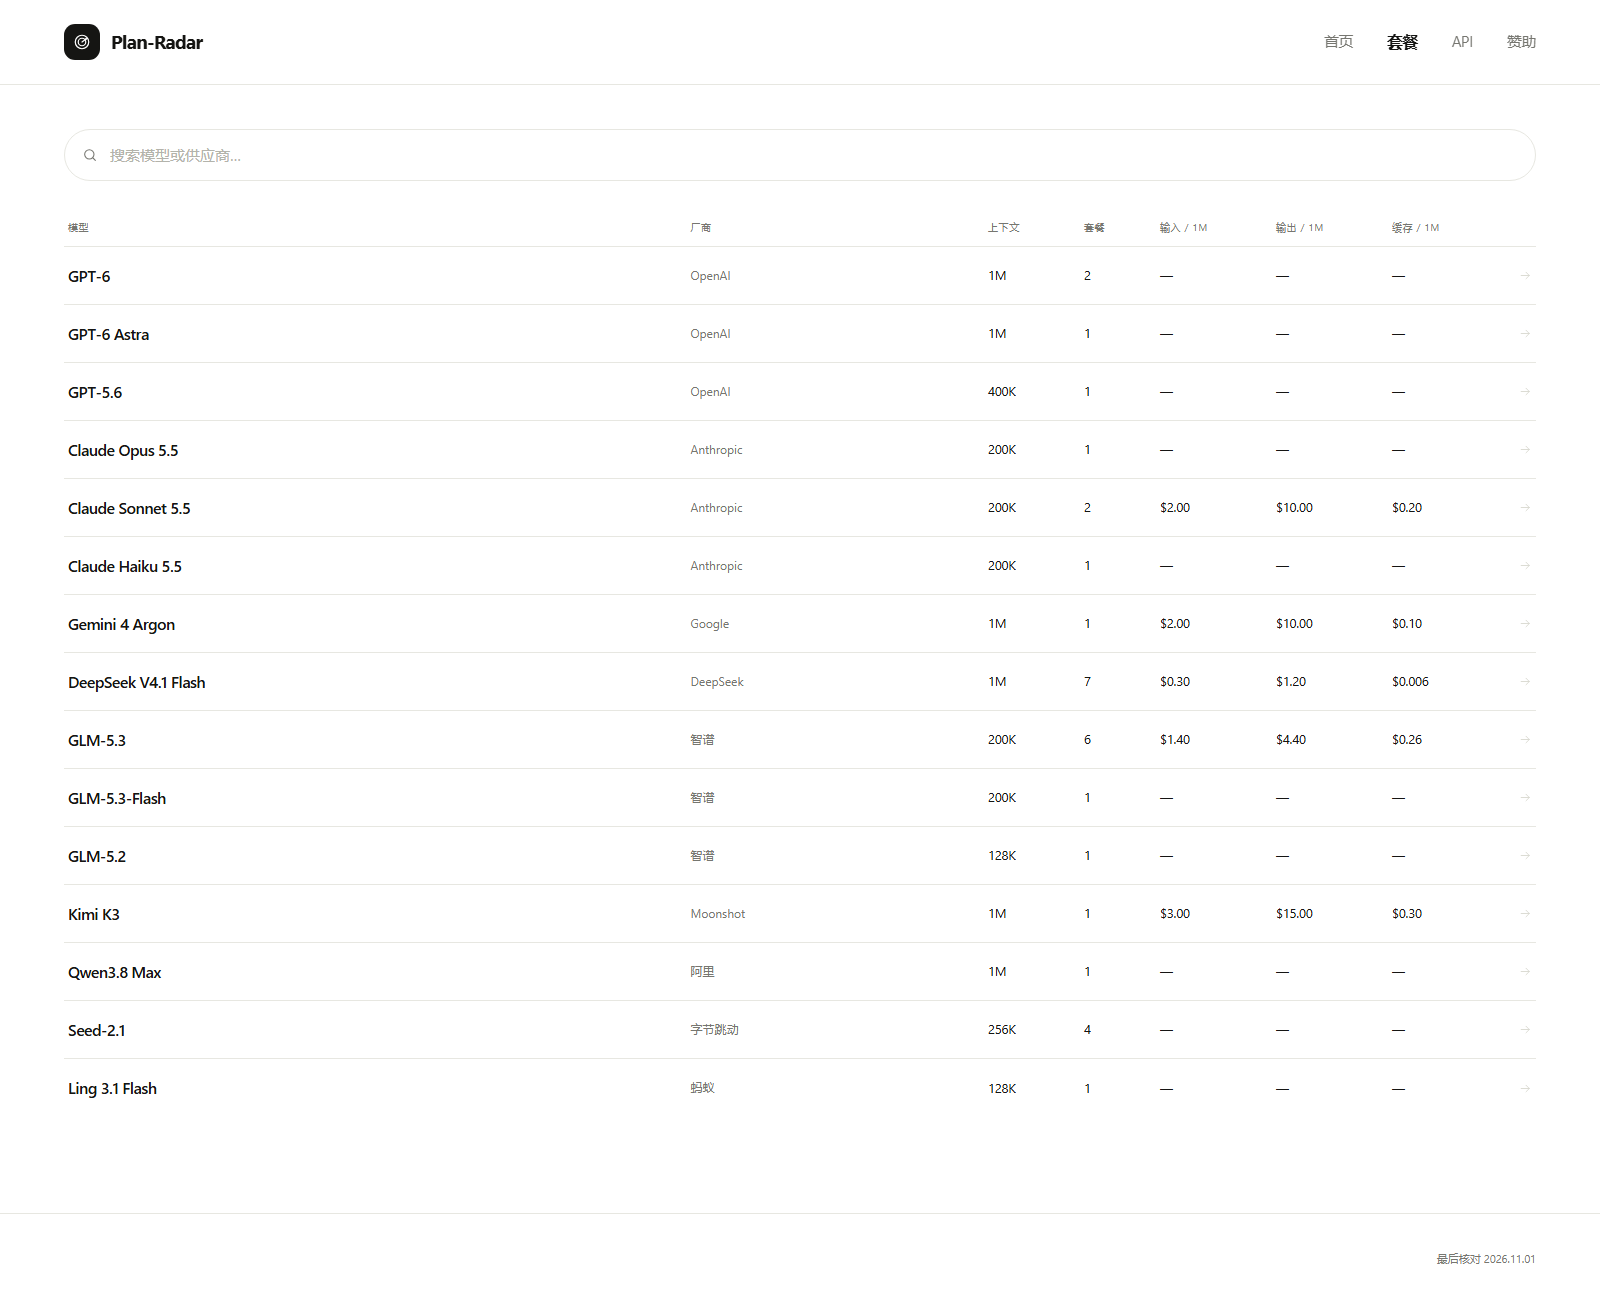
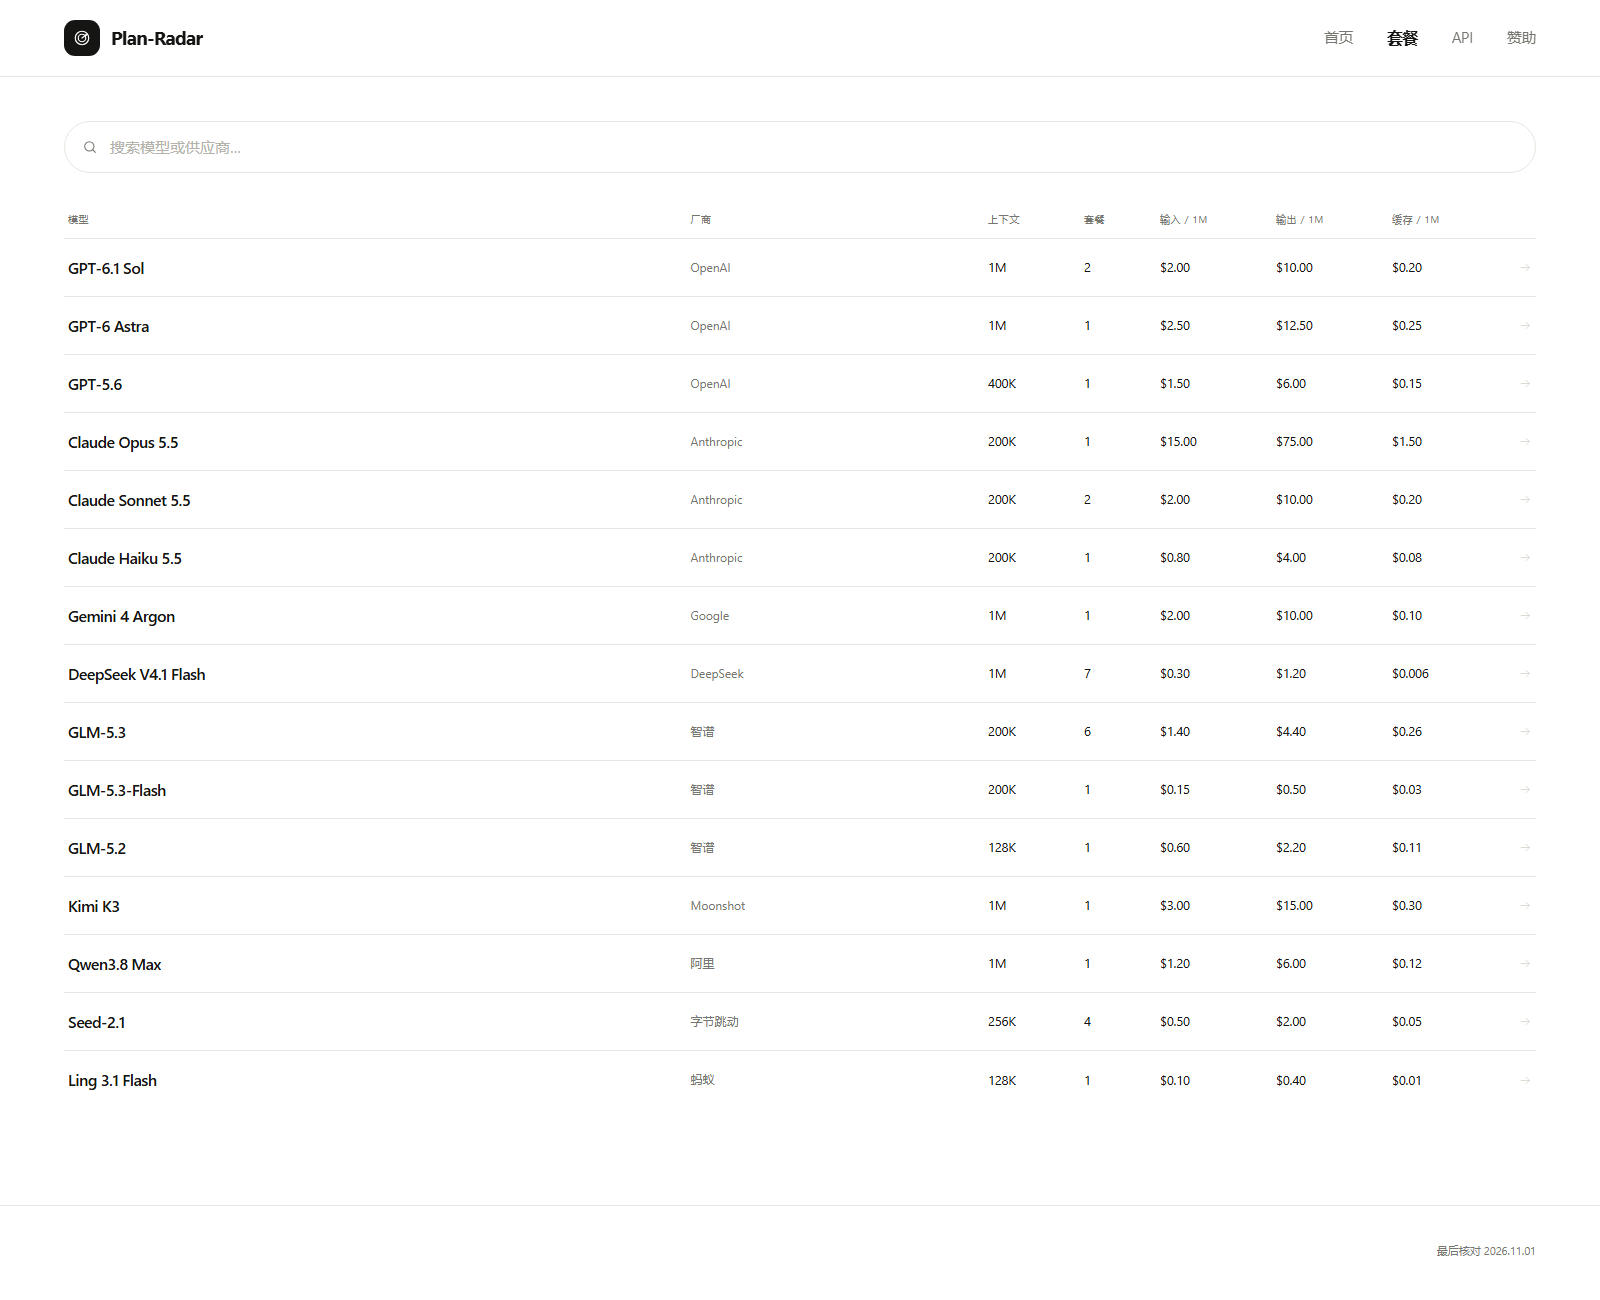
fix: gpt model and prices

diff --git a/lib/api.ts b/lib/api.ts
@@ -91,25 +91,32 @@ export interface TokenPrice {
 
 export const tokenPrices: TokenPrice[] = [
   {
-    slug: "deepseek-v4-1-flash",
-    model: "DeepSeek V4.1 Flash",
-    input: "$0.30",
-    output: "$1.20",
-    cached: "$0.006",
+    slug: "gpt-6",
+    model: "GPT-6.1 Sol",
+    input: "$2.00",
+    output: "$10.00",
+    cached: "$0.20",
   },
   {
-    slug: "glm-5-3",
-    model: "GLM-5.3",
-    input: "$1.40",
-    output: "$4.40",
-    cached: "$0.26",
+    slug: "gpt-6-astra",
+    model: "GPT-6 Astra",
+    input: "$2.50",
+    output: "$12.50",
+    cached: "$0.25",
   },
   {
-    slug: "kimi-k3",
-    model: "Kimi K3",
-    input: "$3.00",
-    output: "$15.00",
-    cached: "$0.30",
+    slug: "gpt-5-6",
+    model: "GPT-5.6",
+    input: "$1.50",
+    output: "$6.00",
+    cached: "$0.15",
+  },
+  {
+    slug: "claude-opus-5-5",
+    model: "Claude Opus 5.5",
+    input: "$15.00",
+    output: "$75.00",
+    cached: "$1.50",
   },
   {
     slug: "claude-sonnet-5-5",
@@ -119,11 +126,11 @@ export const tokenPrices: TokenPrice[] = [
     cached: "$0.20",
   },
   {
-    slug: "gpt-6-sol",
-    model: "GPT-6 Sol",
-    input: "$2.00",
-    output: "$10.00",
-    cached: "$0.20",
+    slug: "claude-haiku-5-5",
+    model: "Claude Haiku 5.5",
+    input: "$0.80",
+    output: "$4.00",
+    cached: "$0.08",
   },
   {
     slug: "gemini-4-argon",
@@ -132,5 +139,124 @@ export const tokenPrices: TokenPrice[] = [
     output: "$10.00",
     cached: "$0.10",
     note: "五折至 11/30",
+  },
+  {
+    slug: "deepseek-v4-1-flash",
+    model: "DeepSeek V4.1 Flash",
+    input: "$0.30",
+    output: "$1.20",
+    cached: "$0.006",
+  },
+  {
+    slug: "deepseek-v4-pro",
+    model: "DeepSeek V4 Pro",
+    input: "$0.60",
+    output: "$2.40",
+    cached: "$0.012",
+  },
+  {
+    slug: "glm-5-3",
+    model: "GLM-5.3",
+    input: "$1.40",
+    output: "$4.40",
+    cached: "$0.26",
+  },
+  {
+    slug: "glm-5-3-flash",
+    model: "GLM-5.3-Flash",
+    input: "$0.15",
+    output: "$0.50",
+    cached: "$0.03",
+  },
+  {
+    slug: "glm-5-2",
+    model: "GLM-5.2",
+    input: "$0.60",
+    output: "$2.20",
+    cached: "$0.11",
+  },
+  {
+    slug: "kimi-k3",
+    model: "Kimi K3",
+    input: "$3.00",
+    output: "$15.00",
+    cached: "$0.30",
+  },
+  {
+    slug: "kimi-k3-1-pro",
+    model: "Kimi K3.1 Pro",
+    input: "$6.00",
+    output: "$30.00",
+    cached: "$0.60",
+  },
+  {
+    slug: "kimi-k2-7-code",
+    model: "Kimi K2.7 Code",
+    input: "$0.60",
+    output: "$2.50",
+    cached: "$0.10",
+  },
+  {
+    slug: "qwen3-8-max",
+    model: "Qwen3.8 Max",
+    input: "$1.20",
+    output: "$6.00",
+    cached: "$0.12",
+  },
+  {
+    slug: "qwen3-8-flash",
+    model: "Qwen3.8 Flash",
+    input: "$0.10",
+    output: "$0.40",
+    cached: "$0.01",
+  },
+  {
+    slug: "qwen3-7-plus",
+    model: "Qwen3.7 Plus",
+    input: "$0.40",
+    output: "$1.20",
+    cached: "$0.04",
+  },
+  {
+    slug: "seed-2-1",
+    model: "Seed-2.1",
+    input: "$0.50",
+    output: "$2.00",
+    cached: "$0.05",
+  },
+  {
+    slug: "grok-4-7",
+    model: "Grok 4.7",
+    input: "$2.00",
+    output: "$6.00",
+    cached: "$0.50",
+  },
+  {
+    slug: "minimax-m3",
+    model: "MiniMax M3",
+    input: "$0.50",
+    output: "$2.00",
+    cached: "$0.05",
+  },
+  {
+    slug: "minimax-m3-1-flash",
+    model: "MiniMax M3.1 Flash",
+    input: "$0.15",
+    output: "$0.60",
+    cached: "$0.015",
+  },
+  {
+    slug: "hy3",
+    model: "Hy3",
+    input: "$0.40",
+    output: "$1.60",
+    cached: "$0.04",
+  },
+  {
+    slug: "ling-3-1-flash",
+    model: "Ling 3.1 Flash",
+    input: "$0.10",
+    output: "$0.40",
+    cached: "$0.01",
   },
 ];

diff --git a/lib/plans.ts b/lib/plans.ts
@@ -164,11 +164,15 @@ export const globalPlans: Plan[] = [
     ratio: "不可折算",
     specs: [
       { label: "5h 窗口", value: "有" },
-      { label: "模型", value: "GPT-6" },
+      { label: "模型", value: "GPT-6.1 Sol" },
       { label: "Codex", value: "支持" },
       { label: "并发", value: "有" },
     ],
-    models: [{ name: "GPT-6" }, { name: "GPT-6 Astra" }, { name: "GPT-5.6" }],
+    models: [
+      { name: "GPT-6.1 Sol" },
+      { name: "GPT-6 Astra" },
+      { name: "GPT-5.6" },
+    ],
     source: "https://chatgpt.com/pricing",
     updated: "11/01",
   },
@@ -191,7 +195,7 @@ export const globalPlans: Plan[] = [
       { label: "IDE", value: "集成" },
       { label: "超额", value: "加购" },
     ],
-    models: [{ name: "GPT-6" }, { name: "Claude" }, { name: "Gemini" }],
+    models: [{ name: "GPT-6.1 Sol" }, { name: "Claude" }, { name: "Gemini" }],
     source: "https://github.com/features/copilot/plans",
     updated: "11/01",
   },

diff --git a/lib/catalog.ts b/lib/catalog.ts
@@ -14,12 +14,12 @@ export interface ModelInfo {
 export const modelCatalog: ModelInfo[] = [
   {
     slug: "gpt-6",
-    name: "GPT-6",
+    name: "GPT-6.1 Sol",
     provider: "OpenAI",
     mark: "OA",
     family: "GPT-6 系列",
     note: "通用 / Codex",
-    aliases: ["GPT-6"],
+    aliases: ["GPT-6", "GPT-6.1 Sol"],
   },
   {
     slug: "gpt-6-astra",
@@ -38,15 +38,6 @@ export const modelCatalog: ModelInfo[] = [
     family: "GPT-5 系列",
     note: "上一代",
     aliases: ["GPT-5.6"],
-  },
-  {
-    slug: "gpt-6-sol",
-    name: "GPT-6 Sol",
-    provider: "OpenAI",
-    mark: "OA",
-    family: "GPT-6 系列",
-    note: "API 价目",
-    aliases: ["GPT-6 Sol"],
   },
   {
     slug: "claude-opus-5-5",
@@ -243,7 +234,6 @@ export const modelContexts: Record<string, string> = {
   "gpt-6": "1M",
   "gpt-6-astra": "1M",
   "gpt-5-6": "400K",
-  "gpt-6-sol": "1M",
   "claude-opus-5-5": "200K",
   "claude-sonnet-5-5": "200K",
   "claude-haiku-5-5": "200K",
